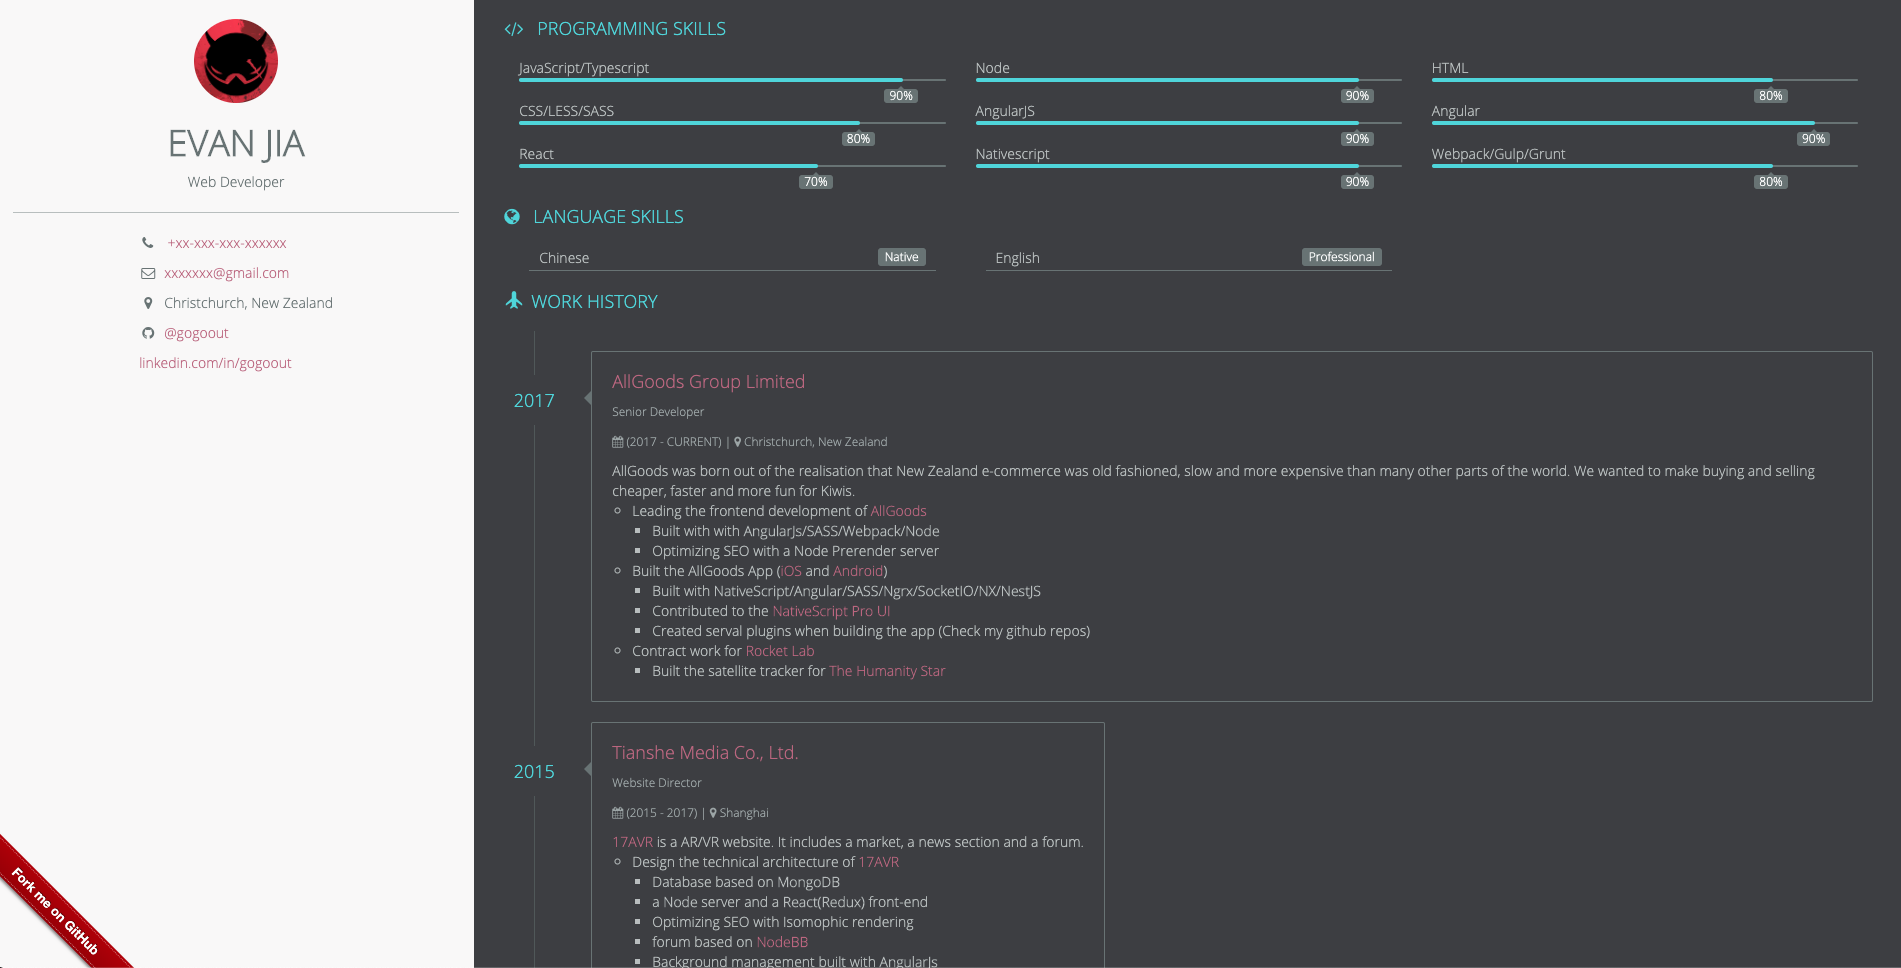
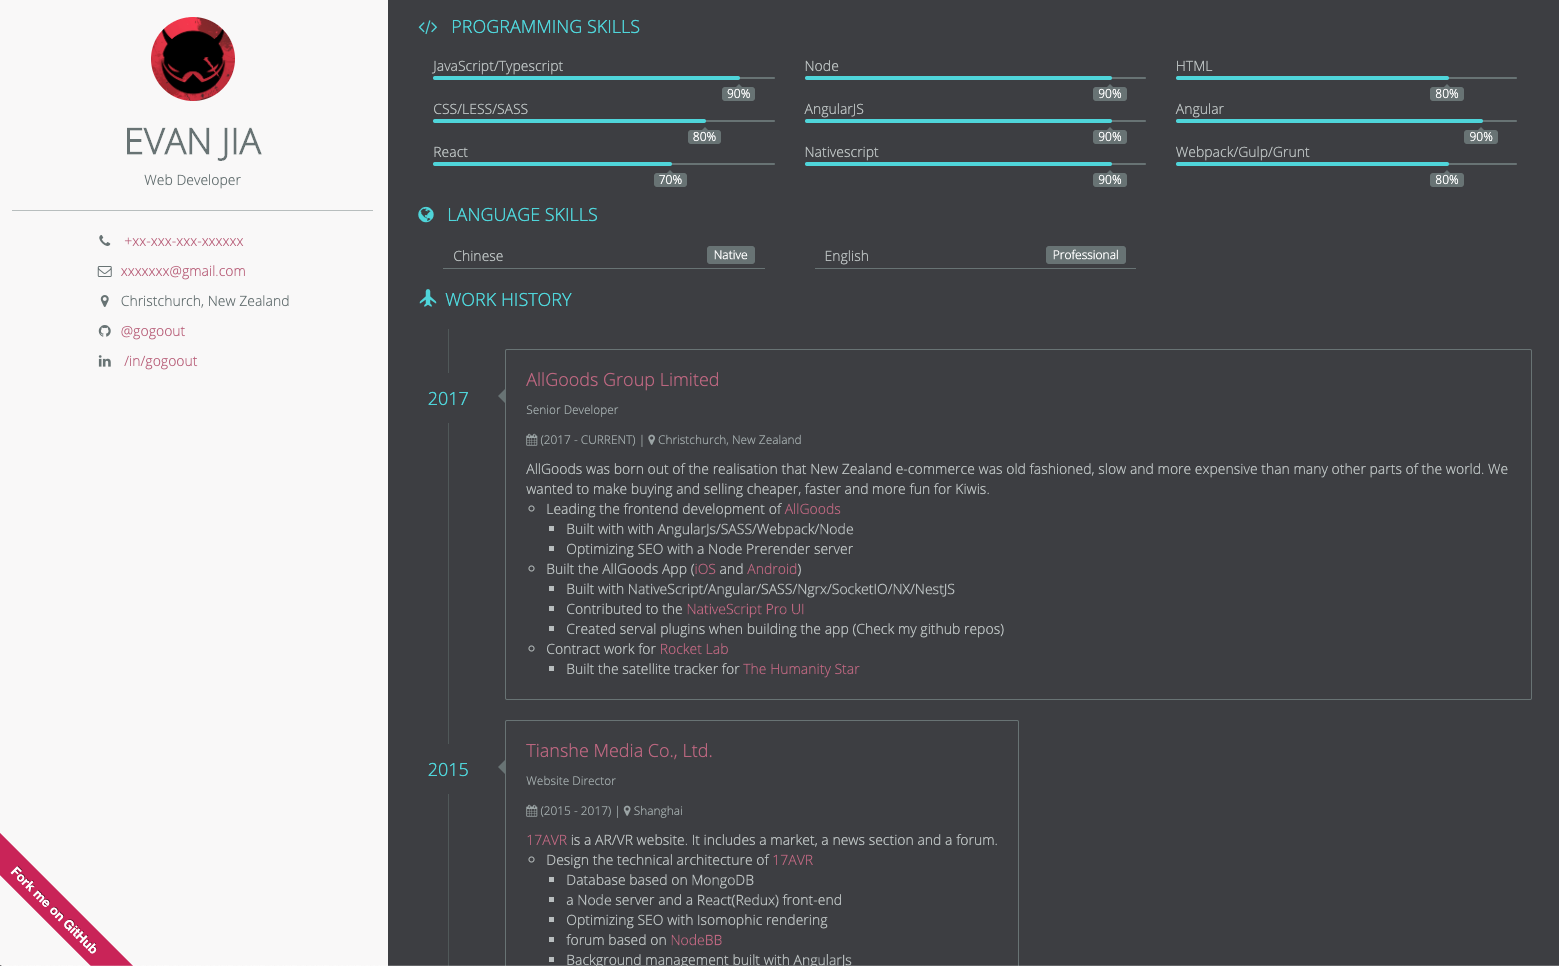
update link and screenshot and fork ribbon

diff --git a/assets/css/resumecard.scss b/assets/css/resumecard.scss
@@ -343,6 +343,7 @@ $duration : 500ms;
 /*!
  * "Fork me on GitHub" CSS ribbon v0.2.0 | MIT License
  * https://github.com/simonwhitaker/github-fork-ribbon-css
+ * modified to make it flat
 */
 
 .github-fork-ribbon {
@@ -388,20 +389,8 @@ $duration : 500ms;
   padding            : .38em 0;
 
   /* Set the base colour */
-  background-color   : #A00;
+  background-color: darken(saturate($secondary-color, 30%), 10%);
 
-  /* Set a gradient: transparent black at the top to almost-transparent black at the bottom */
-  background-image   : -webkit-gradient(linear, left top, left bottom, from(rgba(0, 0, 0, 0)), to(rgba(0, 0, 0, 0.15)));
-  background-image   : -webkit-linear-gradient(top, rgba(0, 0, 0, 0), rgba(0, 0, 0, 0.15));
-  background-image   : -moz-linear-gradient(top, rgba(0, 0, 0, 0), rgba(0, 0, 0, 0.15));
-  background-image   : -ms-linear-gradient(top, rgba(0, 0, 0, 0), rgba(0, 0, 0, 0.15));
-  background-image   : -o-linear-gradient(top, rgba(0, 0, 0, 0), rgba(0, 0, 0, 0.15));
-  background-image   : linear-gradient(to bottom, rgba(0, 0, 0, 0), rgba(0, 0, 0, 0.15));
-
-  /* Add a drop shadow */
-  -webkit-box-shadow : 0 .15em .23em 0 rgba(0, 0, 0, 0.5);
-  -moz-box-shadow    : 0 .15em .23em 0 rgba(0, 0, 0, 0.5);
-  box-shadow         : 0 .15em .23em 0 rgba(0, 0, 0, 0.5);
   pointer-events     : auto;
 }
 
@@ -422,11 +411,6 @@ $duration : 500ms;
   padding         : .15em 0;
   margin          : .15em 0;
 
-  /* Add "stitching" effect */
-  border-width    : .08em 0;
-  border-style    : dotted;
-  border-color    : #FFF;
-  border-color    : rgba(255, 255, 255, 0.7);
 }
 
 .github-fork-ribbon.left-top, .github-fork-ribbon.left-bottom {
